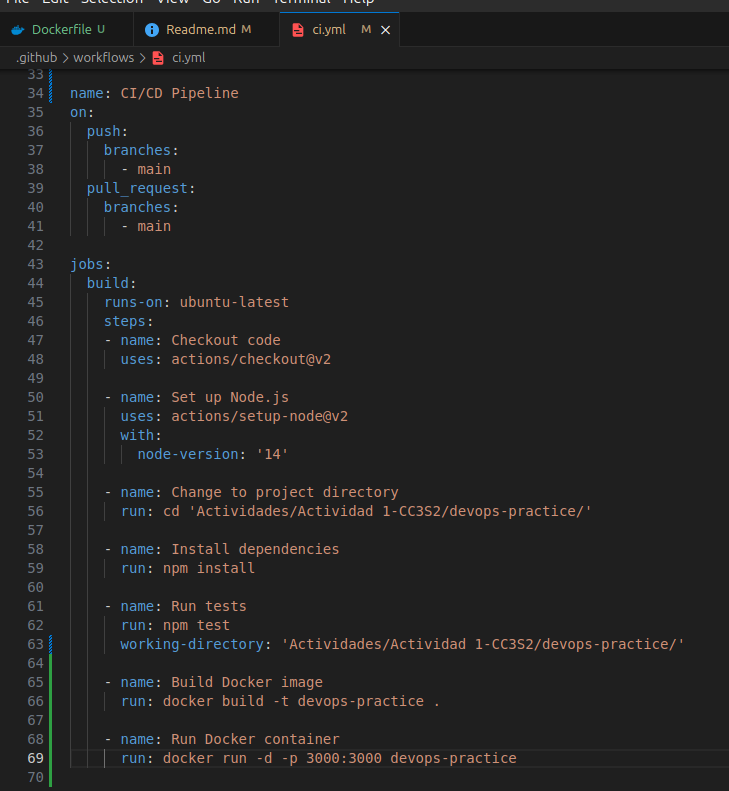
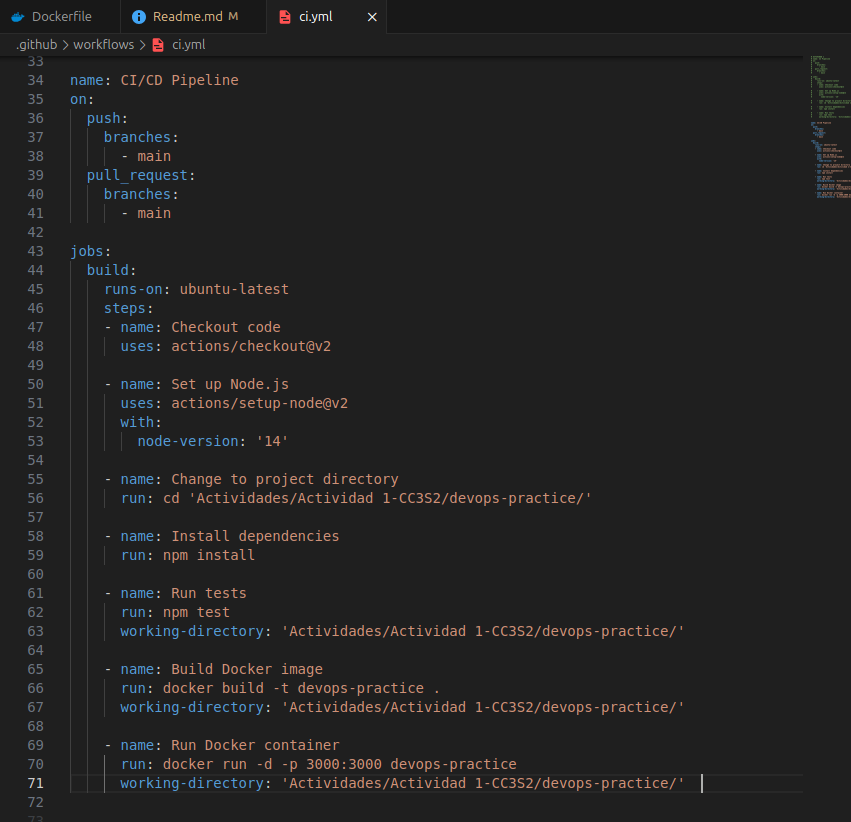
CI/CD complete

diff --git a/Actividades/Actividad 1-CC3S2/Readme.md b/Actividades/Actividad 1-CC3S2/Readme.md
@@ -172,8 +172,38 @@ Si todo salió bien entonces debería aparecer en el listado de imagenes la imá
 Corremos la imágen, es decir ejecutamos un contenedor con esta imágen y debería salir el mensaje que se muestra en pantalla y esto es porque en la última linea del dockerfile indicamos que ejecutara el app con `node src/app.js`
 ![](img/contenedor-running.png)  
   
-Como se está corriendo el app con el contenedor entonces desde el puerto indicado 3000 debería mostrarse el Hello Wolrd!. 
+Como se está corriendo el app con el contenedor entonces desde el puerto indicado 3000 debería mostrarse el Hello Wolrd!.  
 ![](img/result-container.png)  
   
 ### 4. Automatiza el despliegue con GitHub Actions
-![](img/2.2.3.png)
+![](img/2.2.3.png)  
+Lo que se hizo es añadir dos pasos mas, uno para ejecutar la imágen y crear el contenedor en el paso Build Docker image (linea 65) y otro paso para correr dicho contenedor creado en el paso Run Docker Container (linea 69).  
+  
+
+Luego de actualizar nuesto YAML, al momento de pushear debería ejecutarse el flujo de trabajo programado, y si todo salió bien debería salir como la imágen:  
+![](img/result-cd.png)  
+  
+### 5. Automatiza la configuración y gestión del entorno local usando Docker Compose  
+El archivo de docker-compose debe ser algo aso:
+![](img/2.3.1.png)  
+  
+- `version` del compose es 3.8.  
+- `services` en este contexto indica los contenedores (o servicios) que serpan ejecutados, en este caso el único servicio es `app`.  
+- `build .` es para basicamente usar el dockerfile y contruir el contenedor, aquí lo estamos especificando para que se haga de manera automática.  
+- `ports: 3000:3000` Aqui se define el puerto, el primero 300 es el puerto de la máquina host y el segundo es el puerto expuesto en el contenedor, es decir cuando accedamos a localhost:3000, nos estaremos comunicando con el puerto 3000 del contenedor.  
+- `enviroment` es simplemente para definir las variables de entorno, es este caso solo es una variable `NODE_ENV = production`.  
+  
+Corremos la aplicacion con este docker-compose creado con el comando:  
+```
+docker-compose up --build -d
+```  
+
+Si todo salió bien entonces debería salir este mensaje en la terminal, que el contenedor se ha iniciado
+![](img/compose%20result%201.png)
+  
+Y además al acceder al puerto de 3000 en el navegador debería salir el Hello world! que hicimos  
+  
+![](img/compose%20result%202.png)  
+  
+## Parte 3: Evalua la experiencia  
+Con este ejemplo práctico hemos visto como la automatización del CI/CD puede ser de mucha ayuda para satisfacer la demanada de los clientes que solicitan actualizaciones o mejoras continuas, todo está definido y/o automatizado de tal forma qué el desarrollador puede rápidamente integrar su código de su rama a la rama principal(como se vió el la sección de CI) de manera ágil pasando todos los test que se de menera autómatica y como estos se puedes desplegar en un contenedor de manera automatica también (sección CD).
